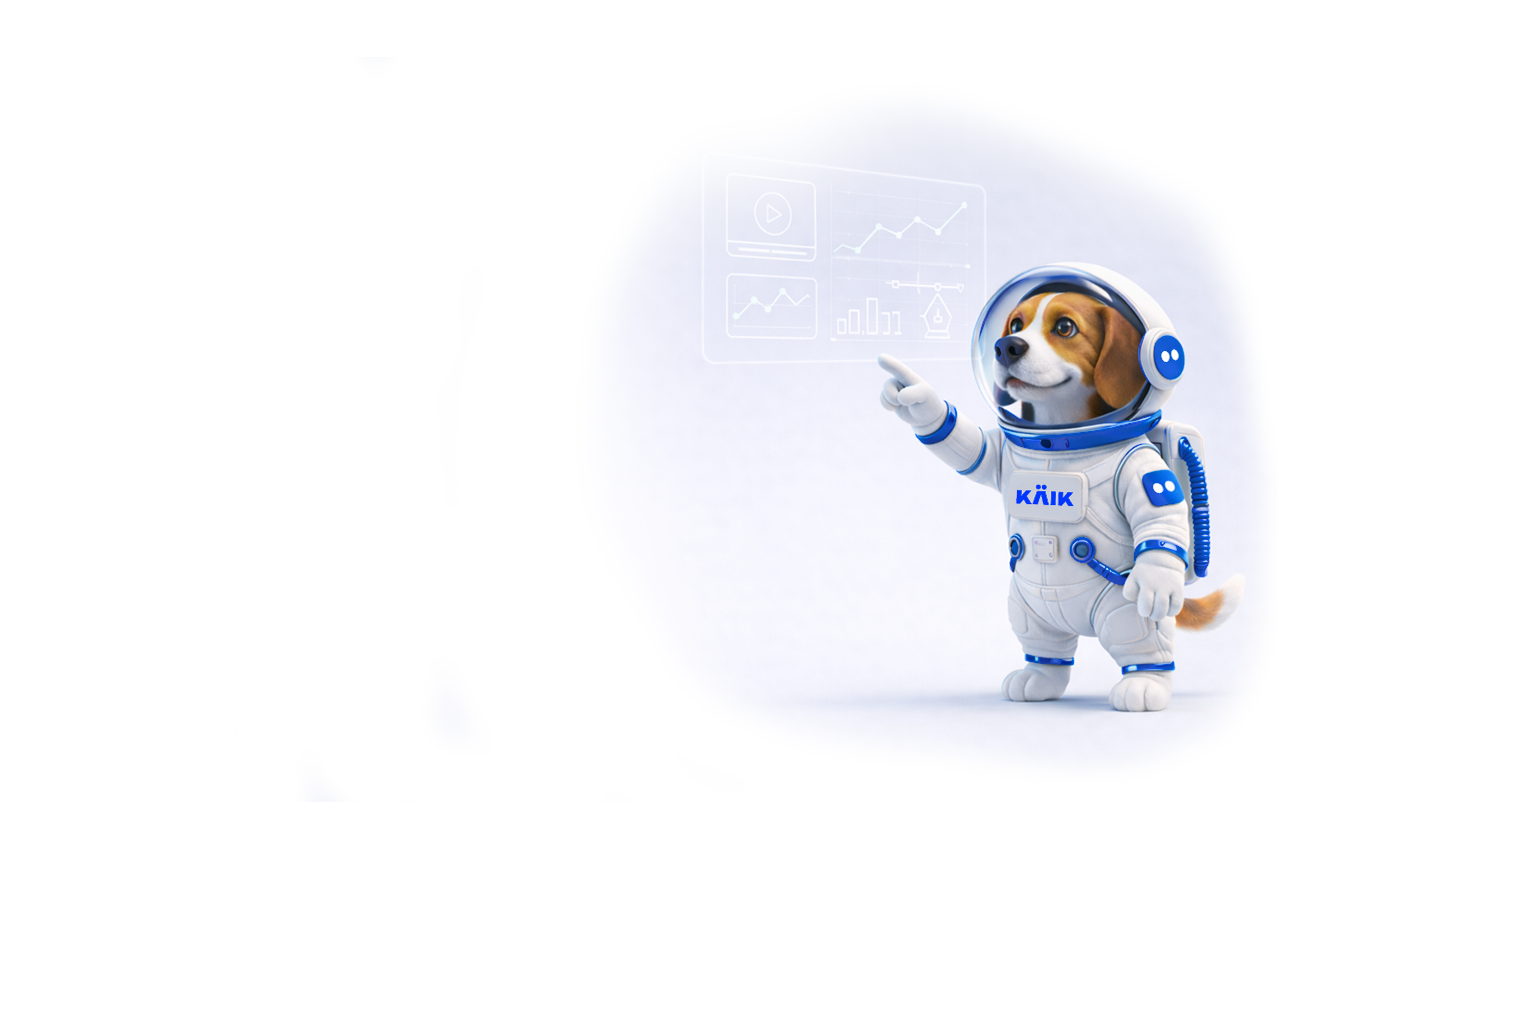
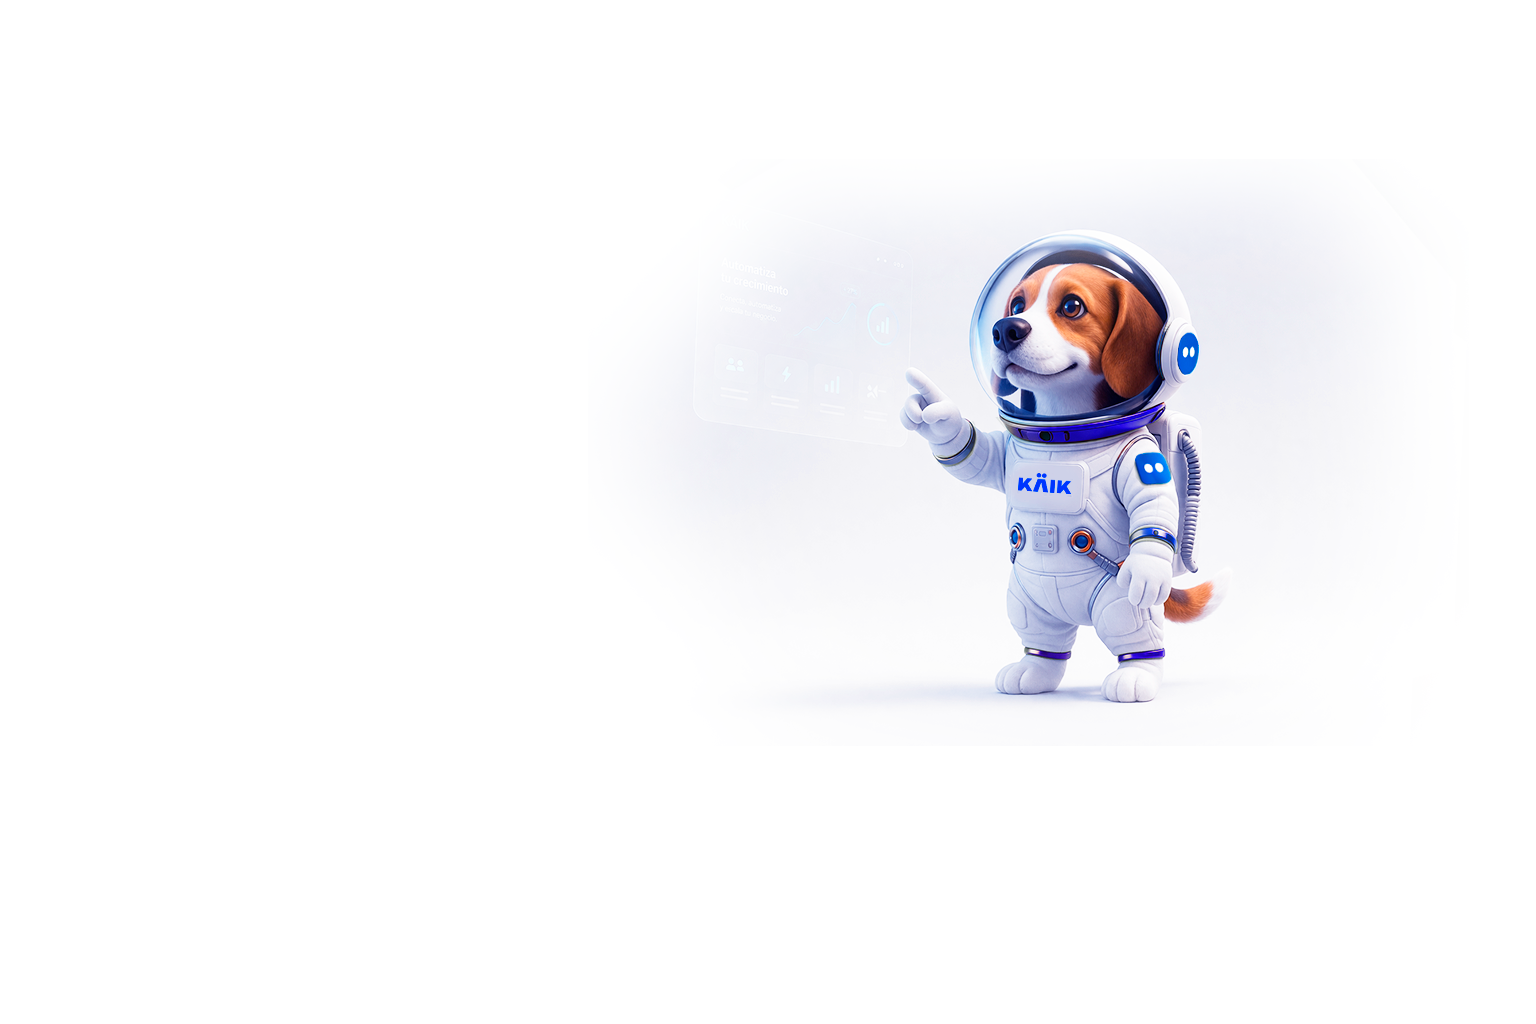
Polish hero visuals and motion

Changed region(s): [[0.5625, 0.2188, 0.8125, 0.7188], [0.5938, 0.1562, 0.625, 0.1875]]

diff --git a/app/page.tsx b/app/page.tsx
@@ -58,7 +58,7 @@ export default function KaikWebsite() {
           />
         </div>
         <div className="relative z-10 mx-auto flex min-h-screen max-w-7xl flex-col px-7 pb-10 pt-6 md:px-10 md:pb-12 md:pt-6">
-          <header className="flex items-center justify-between">
+          <header className="reveal flex items-center justify-between">
             <Image
               src="/logo-kaik.svg"
               alt="KAIK"
@@ -82,7 +82,7 @@ export default function KaikWebsite() {
 
           <div className="grid flex-1 gap-8 pb-4 pt-10 md:grid-cols-[52%_48%] md:items-center md:gap-0 md:pt-10">
             <div className="max-w-[29rem] md:pt-3">
-              <div className="inline-flex items-center gap-2 rounded-full border border-[#d9dce6] bg-white/55 px-4 py-2 text-xs text-[#5d6272] shadow-[inset_0_1px_0_rgba(255,255,255,0.8)] backdrop-blur">
+              <div className="reveal inline-flex items-center gap-2 rounded-full border border-[#d9dce6] bg-white/55 px-4 py-2 text-xs text-[#5d6272] shadow-[inset_0_1px_0_rgba(255,255,255,0.8)] backdrop-blur">
                 <span className="flex items-center gap-1">
                   <span className="h-2 w-2 rounded-full bg-[#0037FF]" />
                   <span className="h-2 w-2 rounded-full bg-[#0037FF]" />
@@ -90,18 +90,18 @@ export default function KaikWebsite() {
                 <span>Creative Content + Software Solutions</span>
               </div>
 
-              <h1 className={`mt-6 text-[clamp(3.9rem,8vw,6.25rem)] font-bold leading-[0.82] tracking-[-0.07em] text-[#7c808d] ${museo.className}`}>
+              <h1 className={`reveal reveal-delay-1 mt-6 text-[clamp(3.9rem,8vw,6.25rem)] font-bold leading-[0.82] tracking-[-0.07em] text-[#7c808d] ${museo.className}`}>
                 <span className="block">We build</span>
                 <span className="block">what</span>
                 <span className="block text-[#0037FF]">connects.</span>
                 <span className="mt-1 block text-[#2a2d38]">Let&apos;s create.</span>
               </h1>
 
-              <p className="mt-5 max-w-xl text-[0.98rem] leading-7 text-[#696f7d] md:text-[1.02rem]">
+              <p className="reveal reveal-delay-2 mt-5 max-w-xl text-[0.98rem] leading-7 text-[#696f7d] md:text-[1.02rem]">
                 Ayudamos a las empresas a conectar mejor con sus equipos y clientes mediante <strong className="font-semibold text-[#2a2d38]">contenido creativo</strong> y <strong className="font-semibold text-[#2a2d38]">plataformas digitales</strong>.
               </p>
 
-              <div className="mt-6 flex items-center gap-3 text-sm font-semibold text-[#666b78]">
+              <div className="reveal reveal-delay-2 mt-6 flex items-center gap-3 text-sm font-semibold text-[#666b78]">
                 <span>Strategy</span>
                 <span>-</span>
                 <span>Creativity</span>
@@ -109,7 +109,7 @@ export default function KaikWebsite() {
                 <span>Technology</span>
               </div>
 
-              <div className="mt-7 flex flex-wrap gap-4">
+              <div className="reveal reveal-delay-3 mt-7 flex flex-wrap gap-4">
                 <a
                   href="#contact"
                   className="rounded-full bg-[#0037FF] px-7 py-3.5 text-sm font-medium text-white shadow-[0_16px_40px_rgba(0,55,255,0.2)] transition-all duration-300 hover:-translate-y-0.5 hover:bg-[#1b4fff]"
@@ -131,7 +131,7 @@ export default function KaikWebsite() {
                   <article
                     key={card.title}
                     data-spotlight
-                    className={`glass-card flex min-h-[19.2rem] w-full max-w-[17.6rem] flex-col rounded-[2rem] border border-white/92 bg-[rgba(255,255,255,0.85)] p-7 shadow-[0_20px_60px_rgba(0,0,0,0.08)] backdrop-blur-[20px] supports-[backdrop-filter]:bg-white/85 ${index === 0 ? 'md:-translate-x-2 md:translate-y-0' : 'md:translate-x-1 md:translate-y-0'}`}
+                    className={`reveal reveal-zoom ${index === 1 ? 'reveal-delay-1' : ''} glass-card hero-float flex min-h-[19.2rem] w-full max-w-[17.6rem] flex-col rounded-[2rem] border border-white/92 bg-[rgba(255,255,255,0.85)] p-7 shadow-[0_20px_60px_rgba(0,0,0,0.08)] backdrop-blur-[20px] supports-[backdrop-filter]:bg-white/85 ${index === 0 ? 'md:-ml-2' : 'hero-float-delay md:ml-1'}`}
                   >
                     <div className="flex h-12 w-12 items-center justify-center rounded-[1.15rem] bg-[linear-gradient(180deg,rgba(255,255,255,0.9),rgba(255,255,255,0.55))] shadow-[inset_0_1px_0_rgba(255,255,255,0.98),0_8px_18px_rgba(180,188,208,0.14)] backdrop-blur-xl">
                       <span className="flex items-center gap-1.5">
@@ -152,7 +152,7 @@ export default function KaikWebsite() {
 
           <a
             href="#services"
-            className="group absolute bottom-6 right-7 z-20 hidden items-center gap-3 rounded-full border border-white/80 bg-[rgba(255,255,255,0.78)] px-3 py-3 shadow-[0_18px_50px_rgba(0,0,0,0.08)] backdrop-blur-[20px] transition-all duration-300 hover:-translate-y-1 hover:bg-white/90 md:flex md:right-10 md:bottom-8"
+            className="reveal reveal-delay-3 group absolute bottom-6 right-7 z-20 hidden items-center gap-3 rounded-full border border-white/80 bg-[rgba(255,255,255,0.78)] px-3 py-3 shadow-[0_18px_50px_rgba(0,0,0,0.08)] backdrop-blur-[20px] transition-all duration-300 hover:-translate-y-1 hover:bg-white/90 md:flex md:right-10 md:bottom-8"
           >
             <span className="flex h-11 w-11 items-center justify-center rounded-full bg-[#0037FF] text-white shadow-[0_10px_24px_rgba(0,55,255,0.24)] transition-transform duration-300 group-hover:translate-y-0.5">
               ↓
@@ -166,16 +166,16 @@ export default function KaikWebsite() {
 
       <section id="services" className="relative min-h-screen overflow-hidden px-7 py-8 md:px-10 md:py-8">
         <div className="mx-auto flex min-h-screen max-w-7xl flex-col justify-center">
-          <div className="flex items-center justify-between text-sm text-[#5e6372]">
+          <div className="reveal flex items-center justify-between text-sm text-[#5e6372]">
             <span>Servicios</span>
             <Image src="/logo-kaik.svg" alt="KAIK" width={58} height={18} className="h-4 w-auto opacity-75" />
           </div>
 
-          <h2 className={`mt-5 max-w-5xl text-[clamp(2.6rem,5.3vw,4.4rem)] font-bold leading-[0.92] tracking-[-0.05em] text-[#141824] ${museo.className}`}>
+          <h2 className={`reveal mt-5 max-w-5xl text-[clamp(2.6rem,5.3vw,4.4rem)] font-bold leading-[0.92] tracking-[-0.05em] text-[#141824] ${museo.className}`}>
             <span className="block">Dos unidades,</span>
             <span className="block">una misma <span className="text-[#0037FF]">lógica de valor.</span></span>
           </h2>
-          <p className="mt-3 max-w-2xl text-[0.98rem] leading-7 text-[#676d7b] md:text-base">
+          <p className="reveal reveal-delay-1 mt-3 max-w-2xl text-[0.98rem] leading-7 text-[#676d7b] md:text-base">
             Integramos <strong className="font-semibold text-[#2a2d38]">contenido creativo</strong>, <strong className="font-semibold text-[#2a2d38]">desarrollo digital</strong> e <strong className="font-semibold text-[#2a2d38]">inteligencia artificial</strong> para construir sistemas coherentes, escalables y visualmente más atractivos.
           </p>
 
@@ -184,7 +184,7 @@ export default function KaikWebsite() {
               <article
                 key={item.title}
                 data-spotlight
-                className={`relative flex min-h-[22rem] h-full flex-col overflow-hidden rounded-[1.7rem] border p-6 ${index === 1 ? 'border-[#2f57ff] bg-[linear-gradient(180deg,#2f57ff_0%,#0037FF_100%)] text-white shadow-[0_20px_60px_rgba(0,55,255,0.18)]' : 'glass-card border-white/92 bg-[rgba(255,255,255,0.85)] shadow-[0_20px_60px_rgba(0,0,0,0.08)] backdrop-blur-[20px] supports-[backdrop-filter]:bg-white/85'}`}
+                className={`reveal reveal-zoom ${index === 1 ? 'reveal-delay-1' : ''} relative flex min-h-[22rem] h-full flex-col overflow-hidden rounded-[1.7rem] border p-6 ${index === 1 ? 'border-[#2f57ff] bg-[linear-gradient(180deg,#2f57ff_0%,#0037FF_100%)] text-white shadow-[0_20px_60px_rgba(0,55,255,0.18)]' : 'glass-card border-white/92 bg-[rgba(255,255,255,0.85)] shadow-[0_20px_60px_rgba(0,0,0,0.08)] backdrop-blur-[20px] supports-[backdrop-filter]:bg-white/85'}`}
               >
                 <div className={`text-xs uppercase tracking-[0.24em] ${index === 1 ? 'text-white/72' : 'text-[#66708e]'}`}>{item.eyebrow}</div>
                 <h3 className={`mt-4 text-[1.95rem] font-bold leading-[0.95] tracking-[-0.04em] ${museo.className}`}>
@@ -210,12 +210,12 @@ export default function KaikWebsite() {
 
       <section id="approach" className="relative overflow-hidden px-7 py-12 md:px-10 md:py-16">
         <div className="mx-auto max-w-7xl text-center">
-          <div className="text-xs uppercase tracking-[0.28em] text-[#717685]">Enfoque</div>
-          <h2 className={`mt-5 text-[clamp(3rem,7vw,5.2rem)] font-bold leading-[0.92] tracking-[-0.06em] text-[#252833] ${museo.className}`}>
+          <div className="reveal text-xs uppercase tracking-[0.28em] text-[#717685]">Enfoque</div>
+          <h2 className={`reveal mt-5 text-[clamp(3rem,7vw,5.2rem)] font-bold leading-[0.92] tracking-[-0.06em] text-[#252833] ${museo.className}`}>
             We build
             <span className="block text-[#0037FF]">connections.</span>
           </h2>
-          <p className="mx-auto mt-5 max-w-3xl text-base leading-8 text-[#676d7b] md:text-lg">
+          <p className="reveal reveal-delay-1 mx-auto mt-5 max-w-3xl text-base leading-8 text-[#676d7b] md:text-lg">
             No trabajamos piezas aisladas. Diseñamos sistemas y servicios de comunicación + herramientas digitales que hacen que una empresa se vea mejor, comunique mejor y opere con mayor eficiencia.
           </p>
           <div className="relative mt-12 grid gap-6 md:grid-cols-3">
@@ -224,7 +224,7 @@ export default function KaikWebsite() {
               <article
                 key={card.title}
                 data-spotlight
-                className={`glass-card relative z-10 flex min-h-[23rem] flex-col rounded-[2rem] border border-white/92 bg-[rgba(255,255,255,0.85)] p-8 text-center shadow-[0_20px_60px_rgba(0,0,0,0.08)] backdrop-blur-[20px] transition-all duration-300 hover:-translate-y-1 hover:shadow-[0_28px_70px_rgba(0,55,255,0.12)] supports-[backdrop-filter]:bg-white/85 ${index === 0 ? 'md:mt-4' : index === 1 ? 'md:min-h-[24rem]' : 'md:mt-4'}`}
+                className={`reveal reveal-zoom ${index === 1 ? 'reveal-delay-1' : index === 2 ? 'reveal-delay-2' : ''} glass-card relative z-10 flex min-h-[23rem] flex-col rounded-[2rem] border border-white/92 bg-[rgba(255,255,255,0.85)] p-8 text-center shadow-[0_20px_60px_rgba(0,0,0,0.08)] backdrop-blur-[20px] transition-all duration-300 hover:-translate-y-1 hover:shadow-[0_28px_70px_rgba(0,55,255,0.12)] supports-[backdrop-filter]:bg-white/85 ${index === 0 ? 'md:mt-4' : index === 1 ? 'md:min-h-[24rem]' : 'md:mt-4'}`}
               >
                 <div className="mt-4 flex items-center justify-center">
                   <div className="flex h-12 w-12 items-center justify-center rounded-[1.15rem] bg-[linear-gradient(180deg,rgba(255,255,255,0.9),rgba(255,255,255,0.55))] shadow-[inset_0_1px_0_rgba(255,255,255,0.98),0_8px_18px_rgba(180,188,208,0.14)] backdrop-blur-xl">

diff --git a/app/globals.css b/app/globals.css
@@ -136,6 +136,14 @@ body::before {
   animation-delay: -7s;
 }
 
+.hero-float {
+  animation: hero-float 7.5s ease-in-out infinite;
+}
+
+.hero-float-delay {
+  animation-delay: -3.2s;
+}
+
 .glass-card {
   position: relative;
   overflow: hidden;
@@ -256,6 +264,16 @@ body::before {
   letter-spacing: 0.26em;
   text-transform: uppercase;
   color: rgba(255, 255, 255, 0.66);
+}
+
+@keyframes hero-float {
+  0%,
+  100% {
+    transform: translate3d(0, 0, 0);
+  }
+  50% {
+    transform: translate3d(0, -10px, 0);
+  }
 }
 
 .section-kicker::before {
